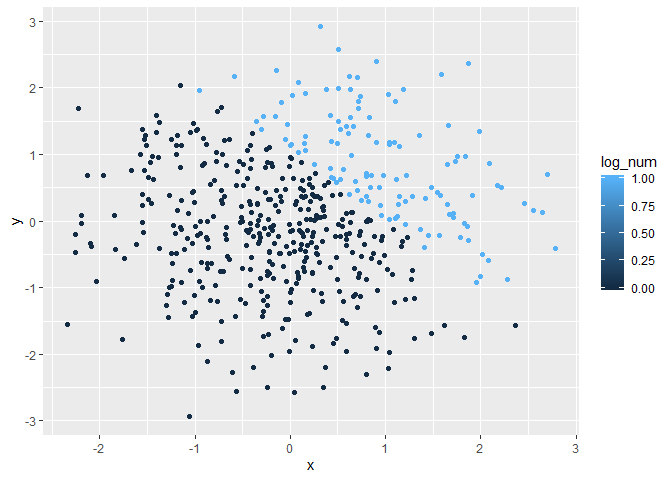
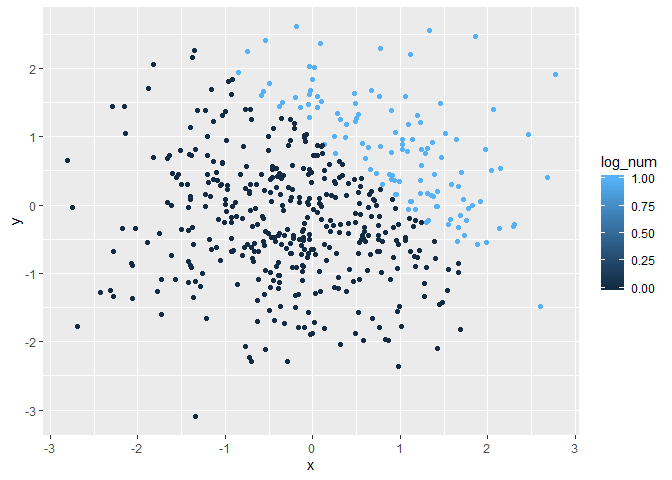
Changes in formatting, selecting which code output to show, adding some analysis.

diff --git a/p8105_hw1_jt3175.md b/p8105_hw1_jt3175.md
@@ -41,13 +41,13 @@ for the character and factor
 mean(pull(simple_df1, sample_norm))
 ```
 
-    ## [1] -0.4171493
+    ## [1] -0.3065181
 
 ``` r
 mean(pull(simple_df1, gr_th_0))
 ```
 
-    ## [1] 0.375
+    ## [1] 0.5
 
 ``` r
 mean(pull(simple_df1, vec_char))
@@ -79,25 +79,27 @@ typed numbers in my character variable, R does not understand the
 meaning and cannot evaluate them.
 
 ``` r
-mean(as.numeric(pull(simple_df1, gr_th_0)))
-mean(as.numeric(pull(simple_df1, vec_char))) #this gives a warning and does not take the mean
-mean(as.numeric(pull(simple_df1, vec_factor)))
+as.numeric(pull(simple_df1, gr_th_0))
+as.numeric(pull(simple_df1, vec_char)) #this gives a warning
+as.numeric(pull(simple_df1, vec_factor))
 ```
 
-In a second code chunk:
+The below code chunk tests three different scenarios:
 
-  - convert the logical vector to numeric, and multiply the random
+  - Convert the logical vector to numeric, and multiply the random
     sample by the result
 
-  - convert the logical vector to a factor, and multiply the random
+  - Convert the logical vector to a factor, and multiply the random
     sample by the result
 
-  - convert the logical vector to a factor and then convert the result
+  - Convert the logical vector to a factor and then convert the result
     to numeric, and multiply the random sample by the result
 
-We see a key difference in logical versus numeric versus facor
-variables. Logical to numeric converts *true* to 1 and *false* to 0.
-However, logical to factor converts *true* to 1 and *false* to 2.
+The second scenario does not work because factor variables are
+categorical, so multiplicaiton cannot be performed. We see a key
+difference in logical versus numeric versus facor variables. Logical to
+numeric converts *true* to 1 and *false* to 0. However, logical to
+factor converts *true* to 1 and *false* to 2.
 
 ``` r
 log_to_num = as.numeric(pull(simple_df1, gr_th_0))
@@ -117,42 +119,36 @@ rs_x_log_to_fac_to_num = log_to_fac_to_num * pull(simple_df1, sample_norm)
 log_to_num
 ```
 
-    ## [1] 0 0 0 0 1 1 1 0
+    ## [1] 1 1 1 1 0 0 0 0
 
 ``` r
 log_to_fac
 ```
 
-    ## [1] FALSE FALSE FALSE FALSE TRUE  TRUE  TRUE  FALSE
+    ## [1] TRUE  TRUE  TRUE  TRUE  FALSE FALSE FALSE FALSE
     ## Levels: FALSE TRUE
 
 ``` r
 log_to_fac_to_num
 ```
 
-    ## [1] 1 1 1 1 2 2 2 1
+    ## [1] 2 2 2 2 1 1 1 1
 
 ``` r
 rs_x_log_to_num
 ```
 
-    ## [1] 0.00000000 0.00000000 0.00000000 0.00000000 0.89391414 0.32111105
-    ## [7] 0.02240654 0.00000000
+    ## [1] 1.041374290 0.576548371 0.750584862 0.009014051 0.000000000 0.000000000
+    ## [7] 0.000000000 0.000000000
 
 ``` r
 rs_x_log_to_fac_to_num
 ```
 
-    ## [1] -1.39651320 -0.08277421 -1.52140019 -0.86809724  1.78782828  0.64222209
-    ## [7]  0.04481308 -0.70584126
+    ## [1]  2.0827486  1.1530967  1.5011697  0.0180281 -0.5152495 -1.1698918
+    ## [7] -1.8563016 -1.2882238
 
 ## Problem 2
-
-Create a data frame comprised of: x: a random sample of size 500 from a
-standard Normal distribution y: a random sample of size 500 from a
-standard Normal distribution A logical vector indicating whether x + y
-\> 1 A numeric vector created by coercing the above logical vector A
-factor vector created by coercing the above logical vector
 
 ``` r
 simple_df2 = tibble(
@@ -166,15 +162,15 @@ simple_df2 = tibble(
 
 The above dataframe contains 5 variables *(x, y, gr\_th\_1, log\_num,
 log\_fac)* of 500 observations each. X and y are both normally
-distributed variables. X has a mean of 0.0346277, median of 0.0546351,
-and standard deviation of 0.9615349. The variable *gr\_th\_1* represents
-whether x + y is greater than 1. There are 120/500 cases where x + y is
+distributed variables. X has a mean of -0.0077381, median of -0.0495546,
+and standard deviation of 1.022198. The variable *gr\_th\_1* represents
+whether x + y is greater than 1. There are 117/500 cases where x + y is
 greater than 1.
 
-Make a scatterplot of y vs x; color points using the logical variable
-(adding color = … inside of aes in your ggplot code should help). Make a
-second and third scatterplot that color points using the numeric and
-factor variables, respectively, and comment on the color scales.
+Below are three scatterplots of y vs x. On the first, points are colored
+using the logical variable. The second and third scatterplots color
+points using the numeric and factor variables, respectively. Comment
+here on the color scales.
 
 ``` r
 ggplot(simple_df2, aes(x = x, y = y, color=gr_th_1)) + geom_point()
